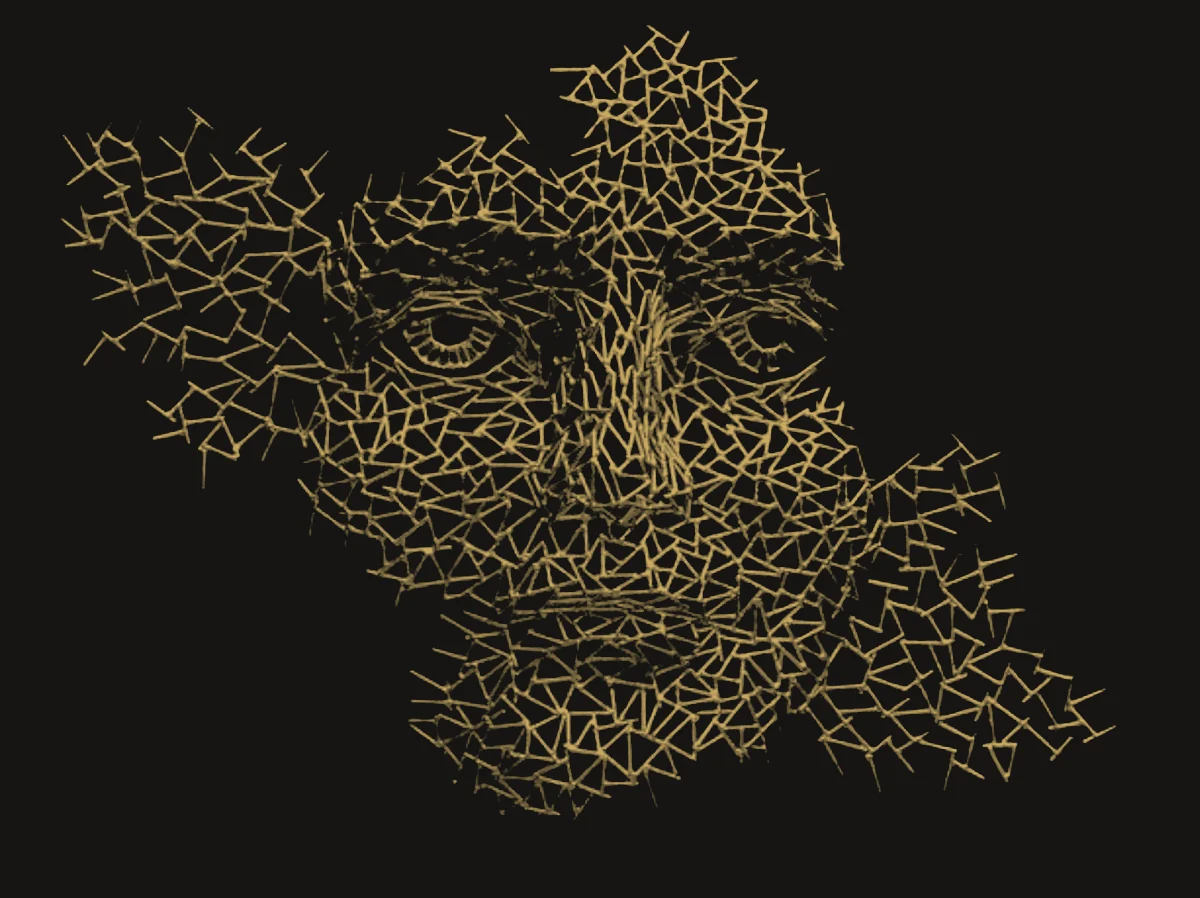
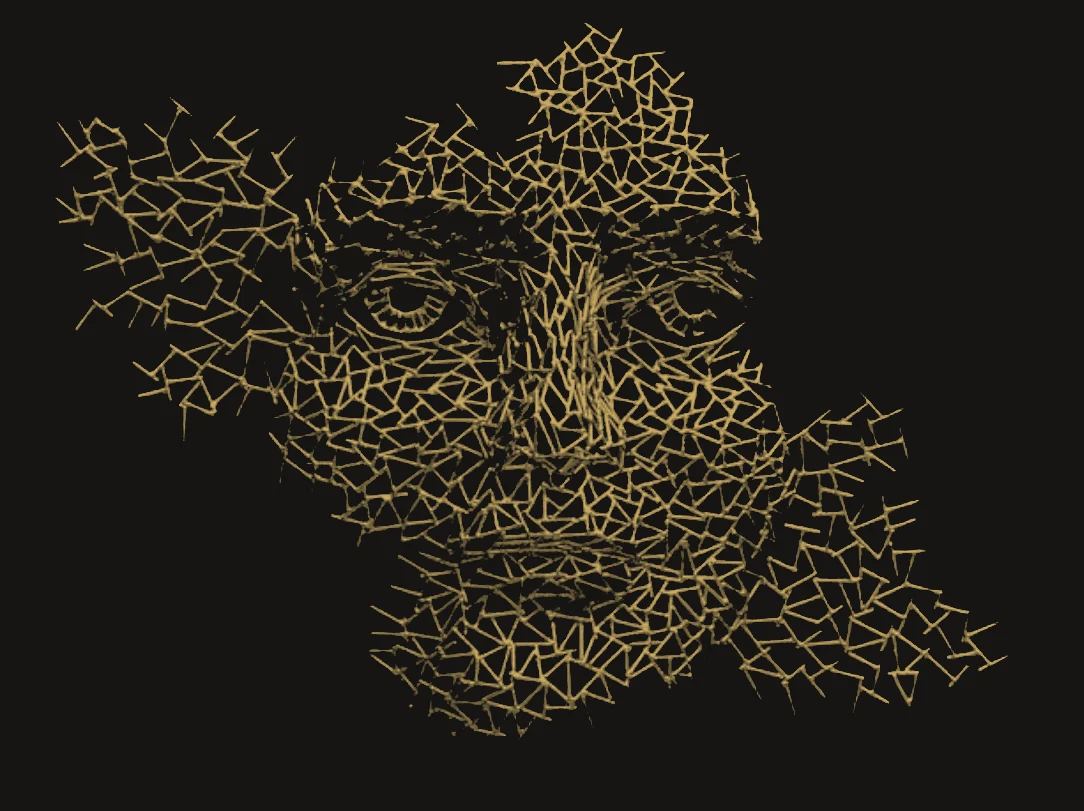
Sharpen both sculptures, trace the champagne glass, bowl down to 190px
The face's soft edges were two things, neither of them the photograph. The asset
was rendered at 1200px from a 1084px source, so it was upscaled — sharpness paid
for nothing. And the saturation window that separates nails from wall was wide
(.30-.52), which feathers every nail edge by design. At the source's own width
with a tight window (.34-.44) the nails resolve individually; compared at 1:1 on
the eye, and full-frame at the .32 watermark opacity to confirm the outer
scatter does not thin out. Unsharp masking on top was tried and only speckles
the shadows. The bowl gets the same treatment, at 583px rather than 440.

That sharpening is what lets the closing mark drop to 190px, the size the owner
asked for and about the floor for it — softer source pixels and the weave would
have matted at that width.

The champagne glass was traced off its photograph the way the red one was, and
the overlay showed the old outline was narrower than the glass by half: it hugged
the highlight running down the middle rather than the rim. The real one is a tall
tulip — rim at three-quarters of the widest width, belly just under half-way
down, then a long cone to a point where the bowl meets the stem. Checked against
the other five at icon size; the set still reads apart.

scripts/face-asset.py goes, superseded by nail-asset.py, which now knows both
sculptures and their windows.

diff --git a/js/app.js b/js/app.js
@@ -537,7 +537,7 @@ function renderContent() {
 
   /* The second sculpture closes the page: a mark for the end, not a divider.
      Only where something was actually listed — nothing to close under "no results". */
-  if (html.includes('class="item')) html += `<div class="closing-mark" aria-hidden="true"><img src="assets/atrium-bowl.webp" alt="" width="440" height="213" loading="lazy"></div>`;
+  if (html.includes('class="item')) html += `<div class="closing-mark" aria-hidden="true"><img src="assets/atrium-bowl.webp" alt="" width="583" height="282" loading="lazy"></div>`;
   box.innerHTML = html;
   box.classList.remove("content-fade");
   void box.offsetWidth;
@@ -824,7 +824,13 @@ window.addEventListener("popstate", () => { if (modalOpen) hideModal(); });
    and Cabernet/Merlot reds, the wide straight-sided cone on a long stem for all
    other reds, small dessert tulip. */
 const GLASS_ICONS = {
-  champagne: '<svg viewBox="0 0 40 100" aria-hidden="true"><path d="M14.8,3 C13.4,10 12.2,16 11.4,22 C10.7,27 10.6,31 11.4,36 C12.6,44 15.8,49 20,52 C24.2,49 27.4,44 28.6,36 C29.4,31 29.3,27 28.6,22 C27.8,16 26.6,10 25.2,3 L14.8,3"/><path d="M20,52 V90"/><path d="M9.5,95 c4,-3.2 17,-3.2 21,0"/><path d="M14.6,11 C13.4,17 12.9,23 13.2,29" style="stroke-width:.8;opacity:.5"/></svg>',
+  /* Also traced off the owner's photo, and it was narrower than the glass by
+     half: the old outline hugged the highlight down the middle rather than the
+     rim. The real one is a tall tulip — rim at three-quarters of the widest
+     width, the belly just under half-way down, then a long cone to a point
+     where the bowl meets the stem. The faint inner line is the crystal sheen,
+     kept from the old drawing. */
+  champagne: '<svg viewBox="0 0 40 100" aria-hidden="true"><path d="M8.1,4 C5.4,12 4.1,20 4.1,27.5 C4.1,34 8.4,43.5 20,53 C31.6,43.5 35.9,34 35.9,27.5 C35.9,20 34.6,12 31.9,4 Z"/><path d="M20,53 V90"/><path d="M9.5,94.5 c4,-3.2 21,-3.2 21,0"/><path d="M9.6,10 C7.6,17 6.8,23 6.9,29" style="stroke-width:.8;opacity:.5"/></svg>',
   riesling: '<svg viewBox="0 0 40 100" aria-hidden="true"><path d="M13.5,8 C12,16 11.2,26 11.2,32 L20,48 L28.8,32 C28.8,26 28,16 26.5,8 L13.5,8"/><path d="M20,48 V88"/><path d="M10.5,93 c3.8,-3 15.2,-3 19,0"/></svg>',
   chardonnay: '<svg viewBox="0 0 40 100" aria-hidden="true"><path d="M11,10 C9.4,16 8.6,24 8.6,30 L20,46 L31.4,30 C31.4,24 30.6,16 29,10 L11,10"/><path d="M20,46 V88"/><path d="M10.5,93 c3.8,-3 15.2,-3 19,0"/></svg>',
   pinot: '<svg viewBox="0 0 40 100" aria-hidden="true"><path d="M13,6 C9.8,12 7.8,21 7.8,29 C7.8,37 8.4,41.5 9.5,43.5 C12,45.8 28,45.8 30.5,43.5 C31.6,41.5 32.2,37 32.2,29 C32.2,21 30.2,12 27,6 L13,6"/><path d="M20,45.8 V88"/><path d="M10.5,93 c3.8,-3 15.2,-3 19,0"/></svg>',

diff --git a/css/style.css b/css/style.css
@@ -41,7 +41,7 @@ body {
     var(--bg);
 }
 /* The nail face from the atrium sits behind Filho's story — the one screen with
-   room for it. Recoloured rather than redrawn (scripts/face-asset.py): the real
+   room for it. Recoloured rather than redrawn (scripts/nail-asset.py): the real
    nails, with the cobalt wall turned charcoal and the metal turned gold, so
    nothing in it fights the palette. */
 .story-screen::before {
@@ -257,7 +257,7 @@ body {
    about 180px the woven nails mat into a smudge — so it is wider than a glyph
    and carried by opacity instead of size. */
 .closing-mark { display: flex; justify-content: center; margin: 2.8rem 0 .6rem; }
-.closing-mark img { width: min(240px, 66%); height: auto; opacity: .7; }
+.closing-mark img { width: min(190px, 56%); height: auto; opacity: .7; }
 .cat-serving { color: var(--text-faint); font-size: .9rem; margin-bottom: .6rem; }
 .price-note { color: var(--text-faint); font-style: italic; font-size: .92rem; margin: .3rem 0 .8rem; }
 .country {

diff --git a/scripts/nail-asset.py b/scripts/nail-asset.py
@@ -34,16 +34,25 @@ GOLD = (201, 169, 97)         # --gold
 SUBJECTS = {
     # src, out, width, saturation window (all metal below S_FULL, all wall
     # above S_NONE), brightness range the gold is modulated across, alpha out
+    # 1084 is the source's own width: the asset was 1200, i.e. upscaled, which
+    # cost sharpness for nothing. The saturation window is tight (.34-.44
+    # rather than .30-.52) because a wide ramp feathers every nail edge — at
+    # 1:1 the wide one is visibly soft and the tight one resolves individual
+    # nails, while at the .32 watermark opacity the outer scatter survives
+    # either way. Unsharp masking was tried on top and speckles the shadows.
     "face": dict(src="data/source/atrium-face-source.jpg",
                  out="assets/atrium-face.webp",
-                 wide=1200, s_full=0.30, s_none=0.52,
+                 wide=1084, s_full=0.34, s_none=0.44,
                  lum=(60, 200), alpha=False),
     # The bowl is an inline ornament, so it wants transparency rather than a
     # baked charcoal ground: the closing mark sits on the list background and
     # must not paint a rectangle over it.
+    # Same tight window, and the source's own 583px rather than 440: the mark
+    # displays at 190px, so every source pixel spent before the downscale is
+    # one the weave keeps.
     "bowl": dict(src="data/source/atrium-bowl-source.png",
                  out="assets/atrium-bowl.webp",
-                 wide=440, s_full=0.30, s_none=0.52,
+                 wide=583, s_full=0.34, s_none=0.44,
                  lum=(60, 200), alpha=True),
 }
 

diff --git a/CLAUDE.md b/CLAUDE.md
@@ -182,8 +182,13 @@ reads as an eye or a sun, and the side-on saucer that shipped read to the owner
 as a smiling mouth. Photographs, not glyphs.
 
 Sizing follows from that: recoloured lace needs room. The bowl closing mark is
-240px wide at .7 opacity (under ~180px the weave mats into a smudge), the face
-watermark is `contain` at .32. The **grape** section ornament stays a drawn SVG —
+190px wide at .7 opacity — the floor, and it only holds there because both
+assets are rendered at the source's own width with a **tight** saturation window
+(.34-.44, not .30-.52). A wide ramp feathers every nail edge; at 1:1 the face
+was visibly soft with it and resolves individual nails without it, and at the
+.32 watermark opacity the outer scatter survives either way. Unsharp masking on
+top only speckles the shadows. Never upscale past the source: the face asset was
+1200px from a 1084px photo, which cost sharpness for nothing. The **grape** section ornament stays a drawn SVG —
 it is an arrangement of nails, not a picture of a sculpture.
 
 The face is a background on `.story-screen::before`, which is `display:none`
